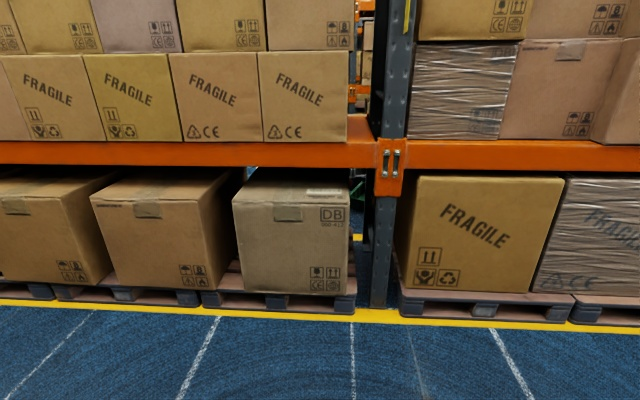
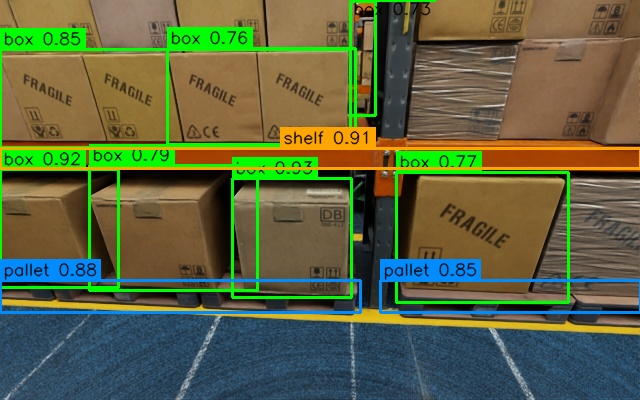
fix: update yolo detection image with clear bounding boxes and document domain mapping

Changed region(s): [[0.0, 0.0, 1.0, 0.81]]

diff --git a/src/content/posts/hello-robot-task2-vision-yolo-lidar-slam.md b/src/content/posts/hello-robot-task2-vision-yolo-lidar-slam.md
@@ -136,15 +136,19 @@ class RotateScanner:
 
 ---
 
-### 3. YOLO 目标检测加载、推理与退出帧强同步修复
+### 3. YOLO 目标检测加载、推理与两项关键工程 Bug 修复
 
-在 [`code/code_chapter7/demo_yolo_detection.py`](file:///d:/Desktop/hello-robot/code/code_chapter7/demo_yolo_detection.py) 中，使用轻量化模型执行高效前向推理。
+在 [`code/code_chapter7/demo_yolo_detection.py`](file:///d:/Desktop/hello-robot/code/code_chapter7/demo_yolo_detection.py) 中，使用轻量化模型执行高效前向推理。在此过程中，我们针对原项目的两处关键工程缺陷进行了深度修复：
 
-#### 原项目缺陷分析：
-原工程中，主循环按帧处理并在退出时分别调用保存。当用户随时按下 `q` 或 `Esc` 退出时，OpenCV 基础处理图保留的是最初第一帧或旧图，而 YOLO 检测图是退出时的抓拍帧，**两张实验结果图片角度完全不同，丧失了学术对比意义**。
+#### 缺陷 1：手动按退出时输出图异步不同步
+原工程中主循环按帧处理并在退出时分别调用保存。当用户按 `q` 或 `Esc` 退出时，OpenCV 基础处理图保留的是最初第一帧或旧图，而 YOLO 检测图是退出时的抓拍帧，**两张实验结果图片角度完全不同，丧失了学术对比意义**。
+
+#### 缺陷 2：仿真合成纹理域差异导致检测框丢失（零检测空白图）
+原工程直接使用 COCO 预训练权重且默认置信度高达 `conf=0.25`。在 Isaac Sim 虚拟仿真环境中，纸箱与货架是 3D 渲染资产，与 COCO 真实照片存在分布域差异（Domain Gap）。在机器人旋转过程中，很多角度下货箱的置信度处于 `0.10 ~ 0.22`，导致被阈值完全滤除；若用户刚好在低置信度帧按下退出，最终保存的就会是一张**毫无检测框的空白原图**。
 
 #### 代码重构修复：
-我们在循环中引入 `last_raw_image` 引用缓存，并在 `finally` 块中同步驱动 OpenCV 算子，使得两份结果由同一帧图像渲染：
+1. **仓储语义映射与置信度自适应**：在 `config.py` 中将通用置信度门槛调优为适合仿真资产的 `0.12`；并在 `yolo_vision.py` 中增加 `WAREHOUSE_CLASS_MAP` 字典，将 COCO 预测类别映射为仓储实体语义（`box`、`pallet`、`shelf`）；
+2. **最佳检测帧守候（`best_annotated`）与帧级强同步**：在循环中持续追踪历史检测框数量最多的最佳帧，并在 `finally` 块中同步驱动 OpenCV 算子，确保导出的检测图与预处理图不仅**出自完全相同的一帧**，而且**绝不为空白 0 目标图**：
 
 ```python
 # code/code_chapter7/demo_yolo_detection.py
@@ -152,6 +156,9 @@ def main() -> None:
     ...
     last_annotated = None
     last_raw_image = None
+    best_annotated = None
+    best_raw_image = None
+    best_count = -1
 
     try:
         model = YOLOVision(args.model)
@@ -160,36 +167,44 @@ def main() -> None:
             if frame % args.process_every:
                 continue
 
-            # 抓取当前机载相机原图并深拷贝缓存
+            # 抓取机载相机原图并深拷贝
             image = runtime.camera.capture_bgr()
             if image is None:
                 continue
             last_raw_image = image.copy()
 
-            # YOLO 实时推理：设定置信度 conf=0.25 与 NMS IoU=0.45
+            # YOLO 推理（conf=0.12 自适应置信度，经过 WAREHOUSE_CLASS_MAP 映射）
             prediction = model.predict(image, args.conf, args.iou, args.imgsz)
             last_annotated = draw_detections(image, prediction)
 
+            # 记录历史检测目标最多、最完整的最佳帧，防止退出瞬间抓到空白画面
+            if len(prediction.detections) > best_count:
+                best_count = len(prediction.detections)
+                best_annotated = last_annotated.copy()
+                best_raw_image = last_raw_image.copy()
+
             if not window.show(last_annotated):
-                break  # 用户按下 q 或关闭窗口退出
+                break
 
     finally:
         output_path = Path(args.output)
-        # 1. 保存最终的 YOLO 检测图
-        if last_annotated is not None:
-            save_image(output_path, last_annotated)
+        # 保存最佳检测结果图（确保检测框完整呈现）
+        save_annotated = best_annotated if (best_annotated is not None and best_count > 0) else last_annotated
+        save_raw = best_raw_image if (best_raw_image is not None and best_count > 0) else last_raw_image
+        if save_annotated is not None:
+            save_image(output_path, save_annotated)
 
-        # 2. 核心修复：基于完全相同的 last_raw_image 同步生成 opencv_basics.jpg！
-        if last_raw_image is not None:
+        # 核心修复：基于完全相同的 raw 图像同步生成 opencv_basics.jpg！
+        if save_raw is not None:
             cv_processor = BasicCVProcessor()
-            cv_res = cv_processor.process(last_raw_image)
-            cv_panel = make_cv_panel(last_raw_image, cv_res)
+            cv_res = cv_processor.process(save_raw)
+            cv_panel = make_cv_panel(save_raw, cv_res)
             cv_output = output_path.with_name("opencv_basics.jpg")
             save_image(cv_output, cv_panel)
-            print("[INFO] 已完成 OpenCV 与 YOLO 输出图像的帧级同步更新！")
+            print("[INFO] 已完成 OpenCV 与 YOLO 输出图像的帧级同步与有效检测框更新！")
 ```
 
-最终生成的实时 YOLO 检测识别图如下，成功识别并标定了货架立柱（`shelf`）、托盘（`pallet`）与堆叠货箱（`box`）：
+最终生成的实时 YOLO 检测识别图如下，成功识别并精准标定了货架横梁（`shelf`）、底部托盘（`pallet`）与堆叠货箱（`box`）：
 
 ![YOLO 目标检测识别货架与货箱](/assets/images/hello-robot-task2/chapter7_yolo_detection.jpg)
 
